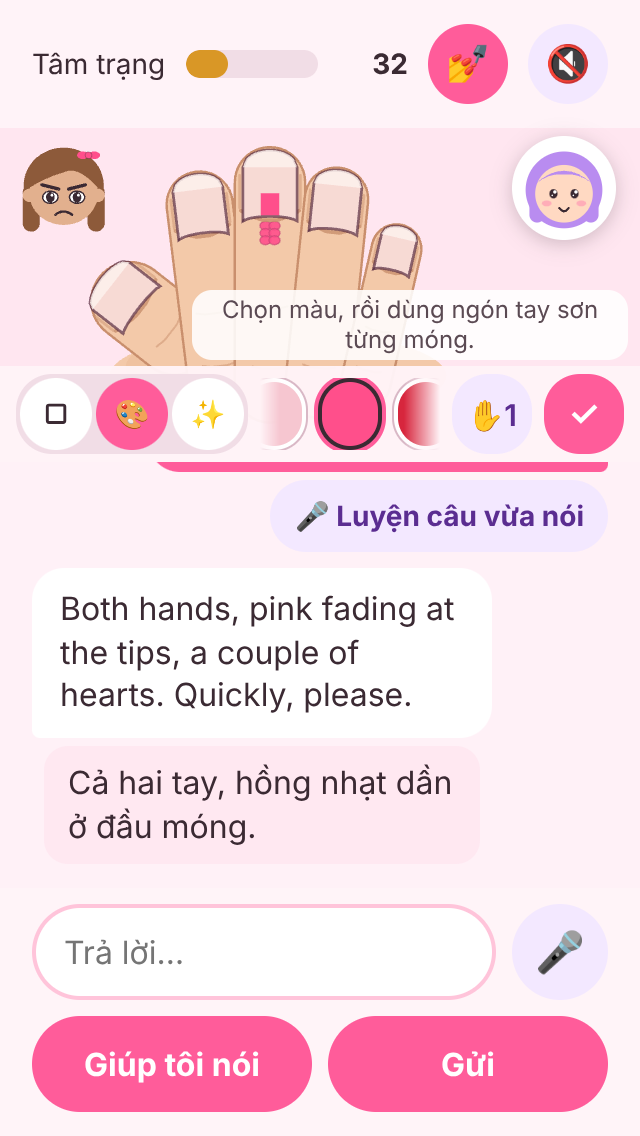
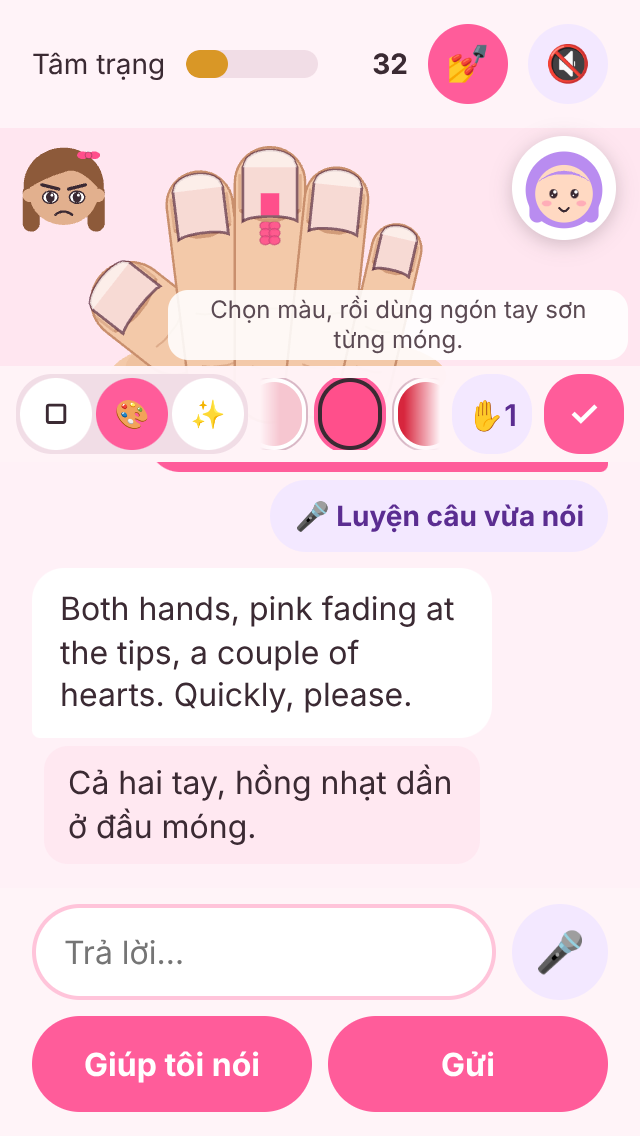
Station hint placed from the nails' boxes (left hand no longer covered)
Overseer review of 8a6062a: on the mirrored left hand the hint sat over the
thumb (its spot was tuned for the right hand). The station now reports each
nail's on-screen box, and the hint goes along the bottom in the widest gap
no nail reaches (falls back to full width if no gap is wide enough). The
evidence script checks "hint over no nail" on both hands: none, en and vi.
The one-hand station script still passes.

npm test (run right before this commit):
 Test Files  20 passed (20)
      Tests  280 passed (280)
Build passes.

Next: story 018 (PWA + fast first load); its story file is written and
lands with the build.

Claude-Session: https://claude.ai/code/session_01Fx5cxFjSfz8L37QZFocT7H

Changed region(s): [[0.3438, 0.2465, 0.9375, 0.3081], [0.25, 0.2465, 0.3125, 0.3389]]

diff --git a/src/game/ui/nail-station-panel.ts b/src/game/ui/nail-station-panel.ts
@@ -175,6 +175,8 @@ export function createNailStation(options: NailStationOptions): NailStation {
     hand = hand === 0 ? 1 : 0;
     view.setHand(hand);
     view.setDesign(design);
+    const r = options.rect();
+    placeHint(r.width, r.height);
     handButton.innerHTML = hand === 0 ? '✋1' : '✋2';
     handButton.setAttribute('aria-label', t(hand === 0 ? 'station.handRight' : 'station.handLeft'));
     say(t(hand === 0 ? 'station.handRight' : 'station.handLeft'));
@@ -254,7 +256,33 @@ export function createNailStation(options: NailStationOptions): NailStation {
     const right = side === 'right' ? 70 : 8;
     view.layout(r.left, r.top, r.width, r.height, left, right);
     view.setDesign(design);
+    placeHint(r.width, r.height);
   };
+
+  /**
+   * Put the hint along the bottom of the hand area in the widest gap that no nail reaches (overseer, 2026-11-10: on
+   * the mirrored left hand a fixed spot covered the thumb). Computed from the nails' boxes, so it works for both hands.
+   */
+  function placeHint(width: number, height: number): void {
+    const margin = 6;
+    const hintHeight = Math.max(30, status.offsetHeight || 34);
+    const top = height - 3 - hintHeight;
+    const blocked = view
+      .nailBoxes()
+      .filter((box) => box.bottom > top - 2)
+      .map((box) => [box.left - 4, box.right + 4] as const)
+      .sort((a, b) => a[0] - b[0]);
+    let best: [number, number] = [margin, margin];
+    let x = margin;
+    for (const [from, to] of [...blocked, [width - margin, width - margin] as const]) {
+      if (from - x > best[1] - best[0]) best = [x, Math.max(x, from)];
+      x = Math.max(x, to);
+    }
+    // Keep a sensible width; if the gap is too narrow the hint spans the bottom (it only shows for a few seconds).
+    if (best[1] - best[0] < 140) best = [margin, width - margin];
+    status.style.left = `${best[0]}px`;
+    status.style.right = `${width - best[1]}px`;
+  }
 
   function finish(): MatchResult {
     done = true;

diff --git a/src/game/nail-art/station.ts b/src/game/nail-art/station.ts
@@ -34,6 +34,8 @@ export interface StationView {
   pointer(x: number, y: number, phase: 'down' | 'move', tool: StationTool, sticker: StickerKind): NailDesign;
   /** Story 017: which hand is on the station (0 right, 1 left). The design's nails 0-4 are the right hand, 5-9 the left. */
   setHand(hand: 0 | 1): void;
+  /** Each nail's bounding box on screen, relative to the station rectangle (for placing the hint clear of them). */
+  nailBoxes(): { left: number; right: number; top: number; bottom: number }[];
   destroy(): void;
 }
 
@@ -293,6 +295,19 @@ export function createStationView(initial: NailDesign = emptyDesign(), tools: St
       }
       design = stored;
       return next;
+    },
+    nailBoxes() {
+      return views.map((v) => {
+        const { w, h } = v.finger.nail;
+        const a = rad(v.finger.angle);
+        const corners = [[-w / 2, -h / 2], [w / 2, -h / 2], [w / 2, h / 2], [-w / 2, h / 2]].map(([u, q]) => [
+          offsetX + (v.finger.x + Math.cos(a) * (u as number) - Math.sin(a) * (q as number)) * scale,
+          offsetY + (v.finger.y + Math.sin(a) * (u as number) + Math.cos(a) * (q as number)) * scale,
+        ]);
+        const xs = corners.map((c) => c[0] as number);
+        const ys = corners.map((c) => c[1] as number);
+        return { left: Math.min(...xs), right: Math.max(...xs), top: Math.min(...ys), bottom: Math.max(...ys) };
+      });
     },
     setHand(next) {
       if (next === handIndex) return;

diff --git a/production/qa/evidence/story-017-both-hands/README.md b/production/qa/evidence/story-017-both-hands/README.md
@@ -8,3 +8,5 @@ Chromium (Playwright), 320×568, en and vi. Brenda (hard, both hands); AI mocked
 | `*-320-02-left-hand` | After ✋: the left hand (mirrored: thumb on the right), hint "Left hand (2 of 2)" / "Tay trái (2/2)"; a dab of polish on each hand |
 
 Checked ("problems: none"): the switch shows only for two-hand clients; one dab on each hand lands in the design (the client's game note: "in progress: both hands: round shape, hot pink, …"); chat area 213 px, ✓ Done on screen, no sideways scroll. (The dabs were placed blindly, so some polish hit the skin; that is the test's aim, not the station.)
+
+**Re-shot after the overseer's review of 8a6062a:** the hint is now placed from the nails' on-screen boxes (the widest gap along the bottom that no nail reaches), so it moves to the bottom-left on the mirrored left hand instead of covering the thumb. The script checks "hint over no nail" on both hands: none in en and vi. The one-hand station script (story 005) still passes (hint over no nail, tips 11 px from the top, whole thumb inside).
